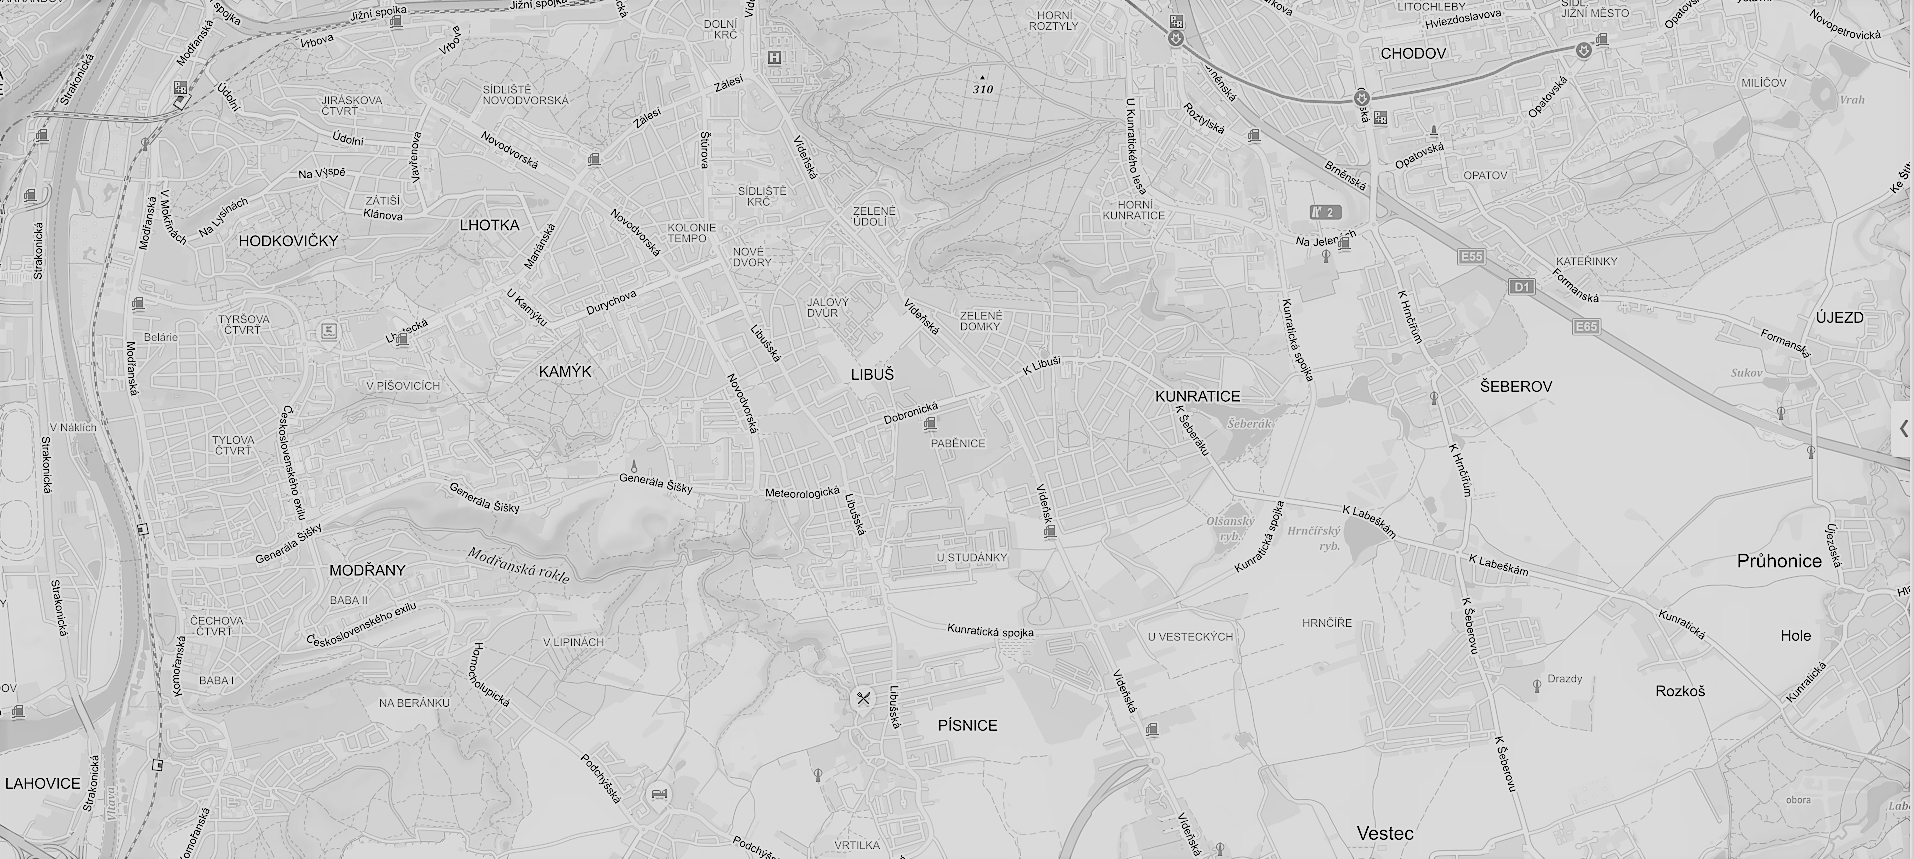
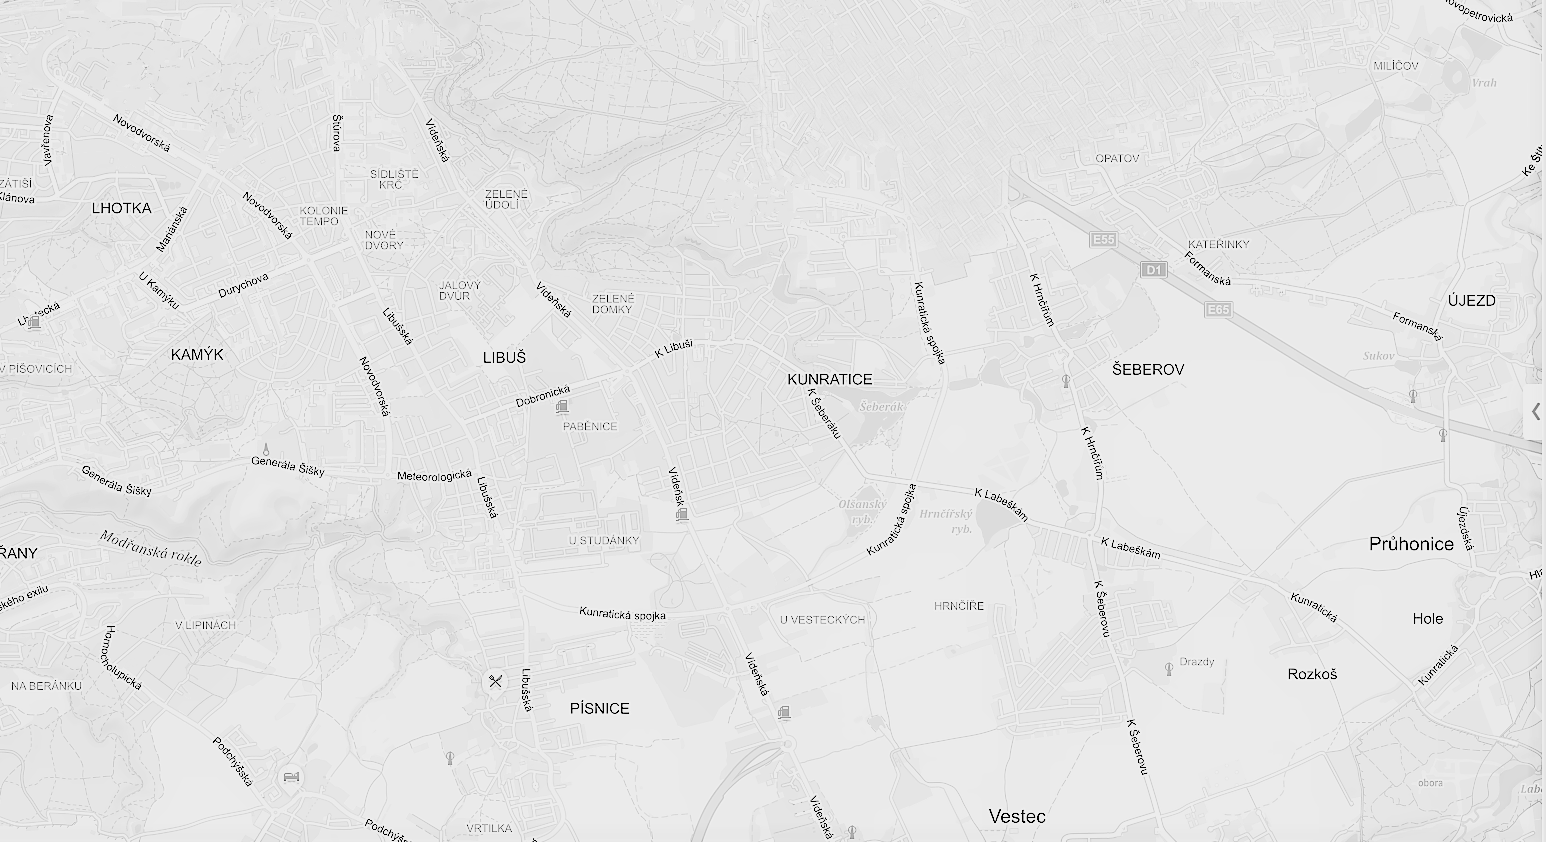
úprava mapa

diff --git a/src/Home/Home.jsx b/src/Home/Home.jsx
@@ -9,7 +9,7 @@ const Home = () => {
       <div
         class="bt-image"
         style={{
-          backgroundImage: 'url(/img/cb.png)',
+          backgroundImage: 'url(/img/mapaCB.png)',
         }}
       >
         <div>

diff --git a/src/Home/style.css b/src/Home/style.css
@@ -18,6 +18,7 @@
 
 .textKlik {
   font-weight: bold !important;
+  font-weight: bold;
   text-align: center;
   font-family: 'Open Sans', sans-serif !important;
   color: #008080 !important;
